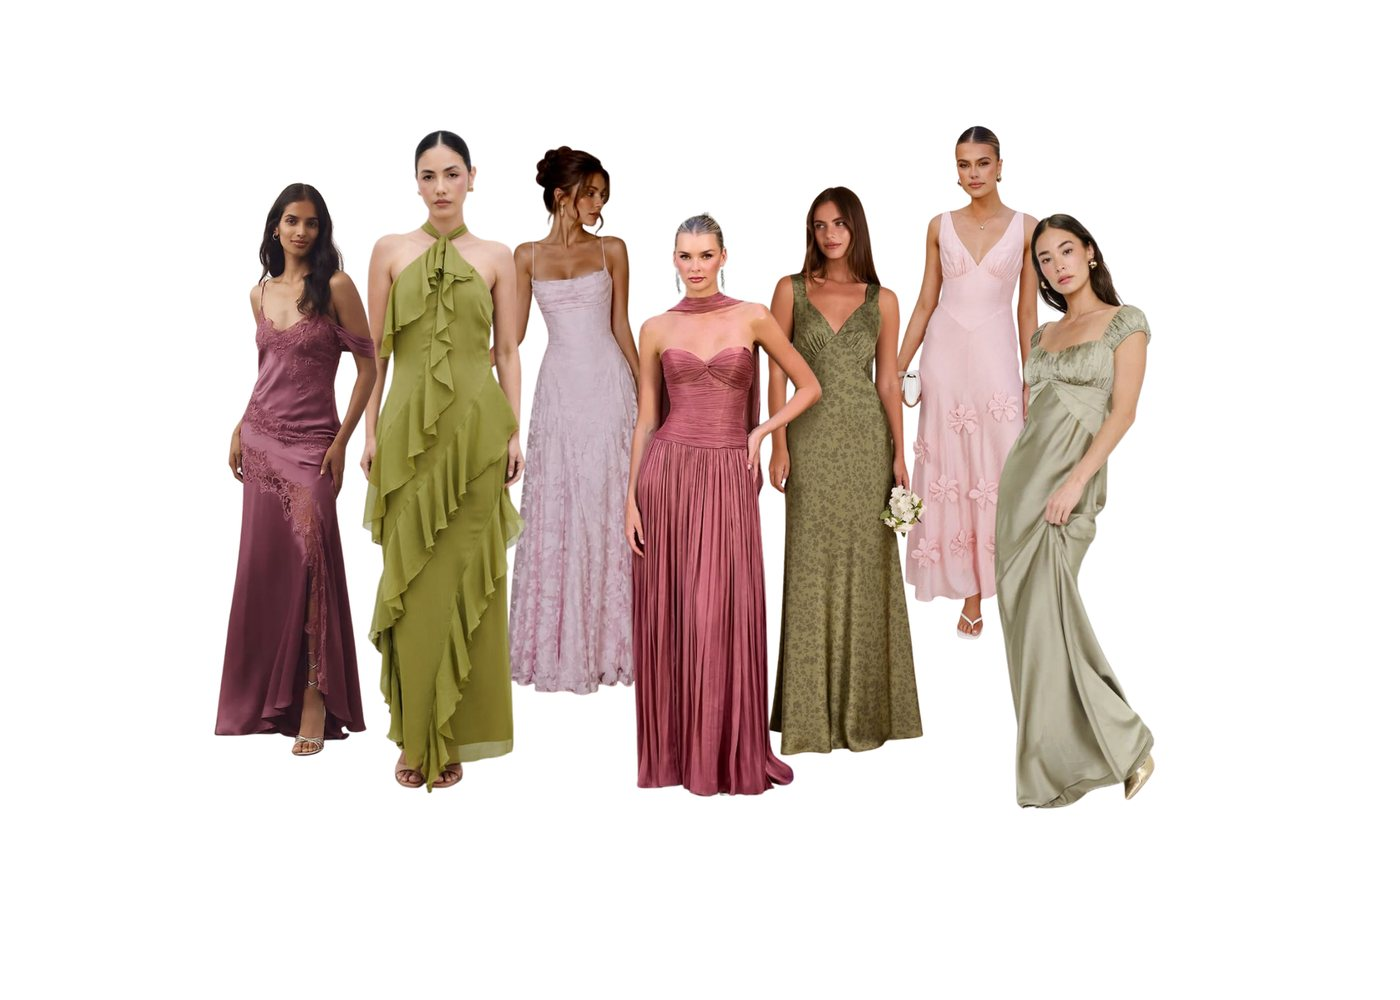
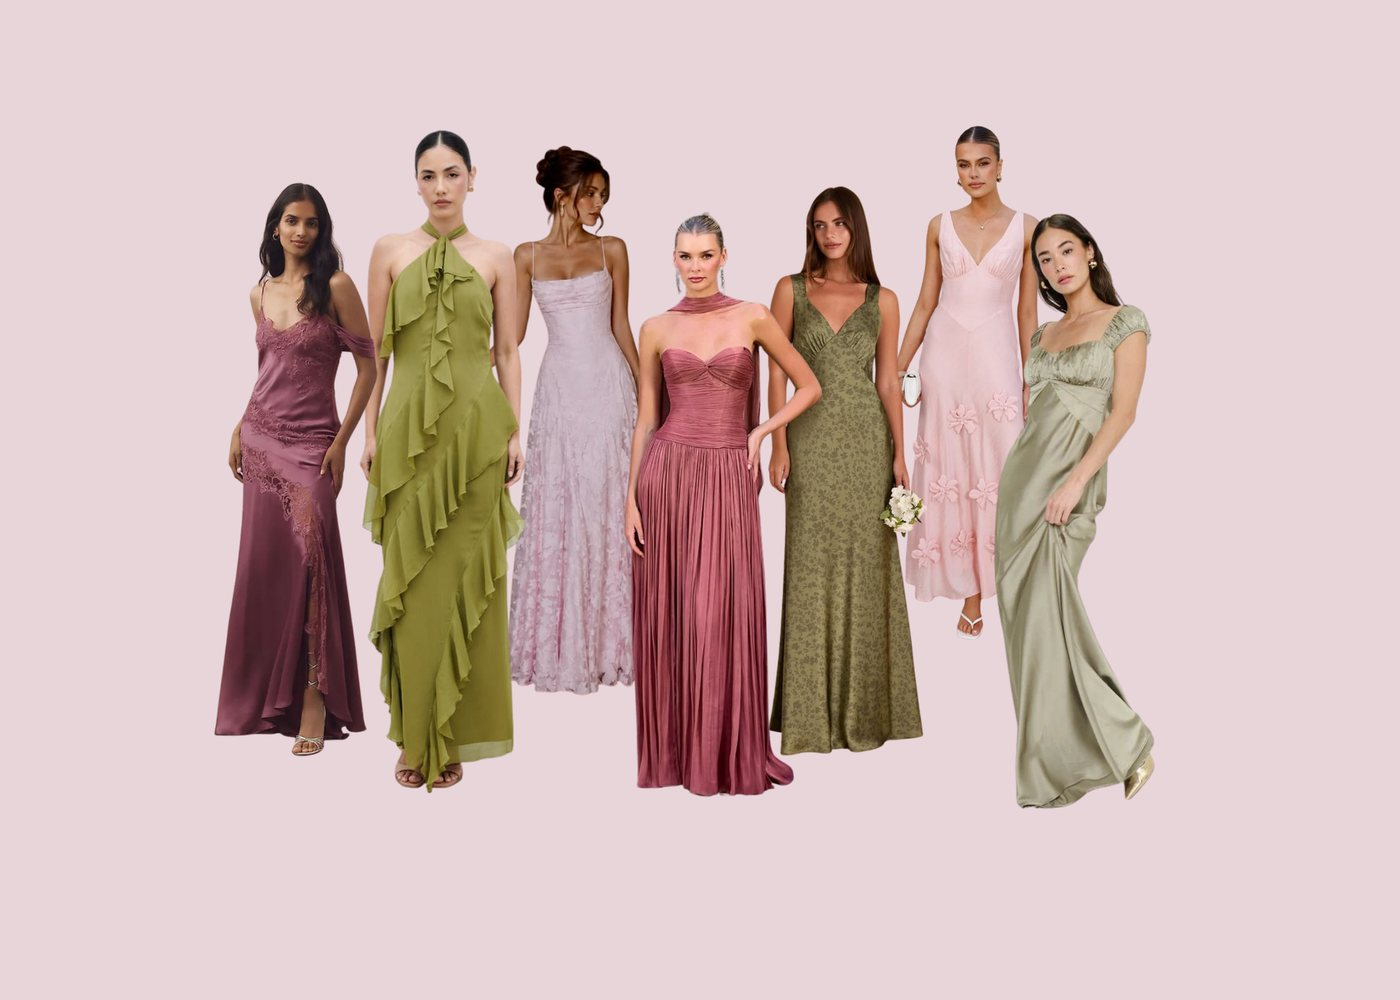
Tint the attire cards sage and mauve; shift the music cue +0.5s
- The Men card in sage #D5DECE, The Women in mauve #E8D5DA. Used tints
  rather than the palette at full strength: Smoky Pink behind body copy
  only reaches 2.8:1 contrast, well below the 4.5:1 needed to read.
  These land at 5.3-5.4:1 while still clearly sage and mauve.
- sample-look boards re-flattened onto the matching tints, so the back
  face no longer shows a white block behind the figures
- small uppercase labels darkened to #55603a (4.9:1) to stay legible
- music cue 650ms -> 1150ms, now firing together with the veil

diff --git a/index.html b/index.html
@@ -370,6 +370,8 @@
   .look-face{
     position:absolute; inset:0; border-radius:4px; overflow:hidden;
     background:#fff; border:1px solid var(--blush);
+    /* per-card tints set below; the sample-look boards are flattened onto the
+       same values so the back face has no white block behind the figures */
     backface-visibility:hidden; -webkit-backface-visibility:hidden;
     box-shadow:0 2px 6px rgba(74,16,36,.10), 0 14px 32px rgba(74,16,36,.12);
   }
@@ -404,6 +406,20 @@
   }
   .look-back .cap b{font-family:'Cormorant Garamond',serif; font-weight:300; font-size:19px; color:var(--burgundy);}
   .look-back .cap i{font-style:normal; font-size:10.5px; letter-spacing:2.4px; text-transform:uppercase; color:var(--olive);}
+
+
+  /* The Men — sage;  The Women — mauve.
+     Tints rather than the palette at full strength: Smoky Pink behind body
+     copy only reaches 2.8:1, well under the 4.5:1 needed to stay readable.
+     These sit at 5.3-5.4:1 while still reading clearly as sage and mauve. */
+  .look-card:nth-child(1) .look-face{background:#D5DECE;}
+  .look-card:nth-child(2) .look-face{background:#E8D5DA;}
+  .look-card .look-kicker,
+  .look-card .look-cue{color:#55603a;}          /* 4.9:1 on both tints */
+  .look-card:nth-child(1) .look-back .cap,
+  .look-card:nth-child(2) .look-back .cap{border-top-color:rgba(92,83,76,.22);}
+  .look-card .look-back .cap i{color:#55603a;}
+  .look-front .ghost{opacity:.22;}              /* tint carries it further than white did */
 
   /* fabric / footwear / accents */
   .attire-notes{
@@ -2002,14 +2018,15 @@
       setTimeout(function(){              // push-in starts while the flap is still travelling
         gate.classList.add('zooming');
       }, 820);
-      /* ── LOCKED TIMING — approved, please don't drift ──────────────────
-         650  music cue      (leads the veil by 0.5s; the track's ~1.05s
-                              lead-in then puts the first line on the white)
+      /* ── TIMING ────────────────────────────────────────────────────────
+         1150 music cue      (moved +0.5s from 650; now fires together with
+                              the veil, so the track's ~1.05s lead-in runs
+                              across the fade and the first line lands as the
+                              screen reaches white)
          1150 veil bloom starts
          2080 site swaps in beneath the white
-         2550 white releases and the clouds part
-         Changing any one of these will pull the vocal off the white peak. */
-      setTimeout(cueMusic, 650);
+         2550 white releases and the clouds part                            */
+      setTimeout(cueMusic, 1150);
       setTimeout(function(){              // white bloom rises while the push-in continues
         spawnSparks();
         veil.classList.add('bloom');
